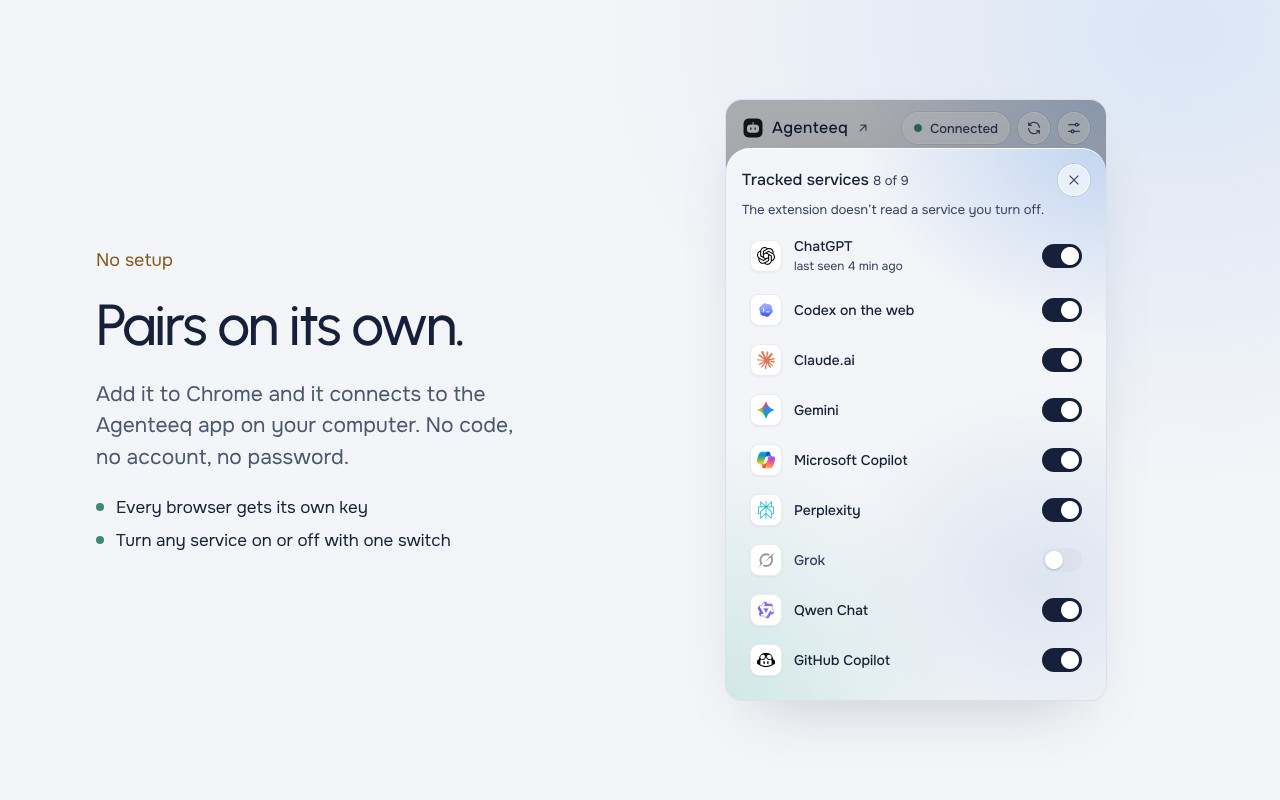
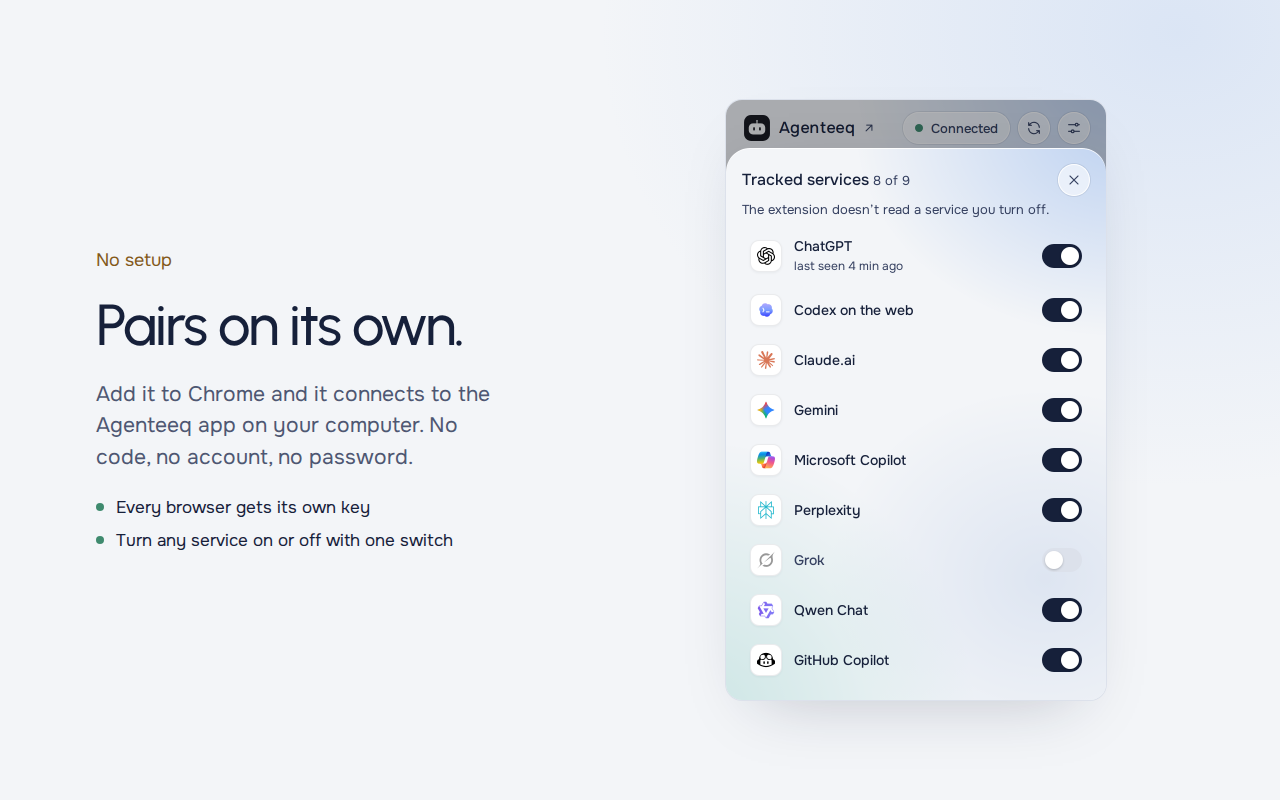
Značka v hlavičce: robot vyvážený k názvu Agenteeq (#255) (#273)
* Značka v hlavičce: větší hlava robota vůči nápisu, jeden poměr všude (#255)

Hlava robota byla vedle nápisu „Agenteeq“ menší než verzálky a každý produkt
měl jiný poměr (aplikace 34 px k 20px písmu, rozšíření 22 px k 16 px, web
34 px k 19 px s mezerou 1,4× verzálek). Velikost loga se teď odvozuje z
velikosti nápisu tokeny --brand-word × --brand-mark-tile (1,9, logo v dlaždici)
nebo --brand-mark-clean (2,1, logo bez dlaždice na webu). Hlava ≈ výška
verzálek, mezera měřená od viditelného tvaru 0,55 em. Logo samo, jeho
geometrie 78:53 ani SVG se nemění.

- aplikace (postranní panel), okno rozšíření, hlavička webu (CZ/EN, 1440 i
  375 px) a stránky se zásadami (logo v dlaždici, třída brand--tile),
- qa:tvary měří velikost, mezeru a svislý střed značky na vykreslené ploše,
- test/znacka-hlavicka.test.mjs hlídá tokeny ve zdrojích,
- snímky pro Chrome Web Store přegenerované skriptem snimky.mjs,
- DESIGN.md: pravidlo „Značka v hlavičce“, CHANGELOG.

Claude-Session: https://claude.ai/code/session_019pjCMAW6NZjG9fzTfPLyCe

* CHANGELOG: jeden nadpis připravovaných změn

Claude-Session: https://claude.ai/code/session_019pjCMAW6NZjG9fzTfPLyCe

---------

diff --git a/extension/popup.html b/extension/popup.html
@@ -35,6 +35,8 @@
       /* Tichá atmosféra aplikace zmenšená na okno: modré světlo vpravo nahoře, šalvěj vlevo dole. Nehýbe se. */
       --atmosphere: radial-gradient(380px 300px at 104% -4%, rgba(150, 184, 236, .58), transparent 70%), radial-gradient(400px 400px at -8% 104%, rgba(158, 212, 206, .46), transparent 70%), radial-gradient(300px 260px at 84% 78%, rgba(190, 206, 232, .40), transparent 72%);
       --w: 380px;
+      /* Značka v hlavičce: stejný poměr loga v dlaždici k nápisu jako v aplikaci (public/styles.css). */
+      --brand-word: 16px; --brand-mark-tile: 1.9;
       color-scheme: light;
     }
     /* Noc: tytéž role jako v aplikaci, inkoust a mlha si prohodí místo. */
@@ -85,7 +87,8 @@
     body[data-odrolovano='true'] .top::after { opacity: 1; }
     /* Značka otevírá aplikaci (jediné místo s touto akcí): kapsle 32 px, plocha až při najetí. Bez
        běžící aplikace je to jen značka – odkaz by vedl na nedostupnou adresu. */
-    .brand { display: inline-flex; align-items: center; gap: 8px; height: 32px; margin: 0 auto 0 -8px; padding: 0 10px 0 8px; min-width: 0; border-radius: var(--r-full); color: var(--ink); font: 500 16px/1 var(--f-display); letter-spacing: .02em; text-decoration: none; transition: background-color var(--motion-response) var(--ease), box-shadow var(--motion-response) var(--ease); }
+    .brand { --brand-mark: round(calc(var(--brand-word) * var(--brand-mark-tile)), 1px); display: inline-flex; align-items: center; gap: max(0px, calc(var(--brand-word) * .55 - var(--brand-mark) * .068)); height: 32px; margin: 0 auto 0 -8px; padding: 0 10px 0 8px; min-width: 0; border-radius: var(--r-full); color: var(--ink); font: 500 var(--brand-word)/1 var(--f-display); letter-spacing: .02em; text-decoration: none; transition: background-color var(--motion-response) var(--ease), box-shadow var(--motion-response) var(--ease); }
+    .brand > img { width: var(--brand-mark); height: var(--brand-mark); flex: none; }
     .brand .sipka { width: 14px; height: 14px; color: var(--ink-2); transition: transform var(--motion-move) var(--ease-out); }
     a.brand:hover { background: var(--glass-strong); box-shadow: inset 0 0 0 1px var(--glass-rim), 0 0 0 1px var(--hair); }
     a.brand:hover .sipka { transform: translate(2px, -2px); }
@@ -366,7 +369,7 @@
 </head>
 <body class="ext-okno" data-stav="nacitam" data-pohled="hlavni">
   <header class="top">
-    <a class="brand" id="brand" href="http://127.0.0.1:4620/" target="_blank" rel="noopener" aria-label="Otevřít aplikaci Agenteeq" title="Otevřít aplikaci Agenteeq" data-i18n-attr="aria-label,title"><img src="icons/brand.svg" width="22" height="22" alt="">Agenteeq<svg class="ico sipka" viewBox="0 0 24 24" aria-hidden="true"><path d="M7 17 17 7M8 7h9v9"/></svg></a>
+    <a class="brand" id="brand" href="http://127.0.0.1:4620/" target="_blank" rel="noopener" aria-label="Otevřít aplikaci Agenteeq" title="Otevřít aplikaci Agenteeq" data-i18n-attr="aria-label,title"><img src="icons/brand.svg" width="30" height="30" alt="">Agenteeq<svg class="ico sipka" viewBox="0 0 24 24" aria-hidden="true"><path d="M7 17 17 7M8 7h9v9"/></svg></a>
     <span class="chip chip--glass stav" id="pill" role="status"><span class="dot"></span><span id="pill-text" data-i18n>Zjišťuji…</span></span>
     <button class="icon-btn" id="refresh-popup" type="button" aria-label="Obnovit aktuální stav" title="Obnovit aktuální stav" data-i18n-attr="aria-label,title">
       <svg class="ico" viewBox="0 0 24 24" aria-hidden="true"><path d="M20 11a8 8 0 0 0-14.9-3.5M4 4v4h4M4 13a8 8 0 0 0 14.9 3.5M20 20v-4h-4"/></svg>

diff --git a/site/lp.css b/site/lp.css
@@ -30,6 +30,10 @@
   --r-tile: 28px; --r-lg: 24px; --r-md: 16px; --r-sm: 12px; --r-xs: 6px; --r-full: 999px;
   --ease: cubic-bezier(.2, .8, .2, 1);
   --page: 1120px;
+  /* Značka v hlavičce: velikost loga se odvozuje z nápisu (docs/DESIGN.md, Značka v hlavičce).
+     Logo bez dlaždice má rámeček 2,1× písmo (hlava ≈ výška verzálek, s anténou ≈ 1,4×), logo
+     v dlaždici 1,9× jako v aplikaci. Mezera se měří od viditelného tvaru: .55em. */
+  --brand-word: 19px; --brand-mark-clean: 2.1; --brand-mark-tile: 1.9;
   --unit-y: clamp(96px, 11vw, 160px);
   color-scheme: light;
 }
@@ -773,8 +777,12 @@ footer.site-footer { padding:0; border-color:rgba(255,255,255,.08); }
 .nav { background:#111017; }
 .nav.is-odjeto { background:rgba(17,16,23,.85); backdrop-filter:blur(24px) saturate(135%); -webkit-backdrop-filter:blur(24px) saturate(135%); border-bottom-color:rgba(255,255,255,.1); box-shadow:0 12px 35px -28px rgba(0,0,0,.8); }
 .nav-in { min-height:76px; gap:clamp(18px,2.5vw,36px); }
-.nav .brand { font-size:19px; gap:12px; letter-spacing:-.025em; }
-.nav .brand img { width:34px; height:34px; }
+.nav .brand { --brand-ratio:var(--brand-mark-clean); --brand-bearing:.226; --brand-mark:round(calc(var(--brand-word) * var(--brand-ratio)), 1px); font-size:var(--brand-word); letter-spacing:-.025em;
+  /* Rámeček loga má po stranách prázdno (bez dlaždice 22,6 %, dlaždice 6,8 %), proto se mezera
+     počítá od viditelného tvaru: všude .55em, stejně jako v aplikaci a rozšíření. */
+  gap:max(0px, calc(.55em - var(--brand-mark) * var(--brand-bearing))); }
+.nav .brand--tile { --brand-ratio:var(--brand-mark-tile); --brand-bearing:.068; }
+.nav .brand img { width:var(--brand-mark); height:var(--brand-mark); }
 .nav-links { gap:clamp(12px,2vw,26px); }
 .nav-links a { display:inline-flex; align-items:center; min-height:40px; border-radius:var(--r-full); padding:0 9px; transition:color .2s var(--ease),background-color .2s var(--ease); }
 .nav-links a:hover { background:rgba(255,255,255,.06); }
@@ -801,7 +809,7 @@ footer.site-footer { padding:0; border-color:rgba(255,255,255,.08); }
  #vyzkouset .steps li:hover::before { transform:translate3d(10%,8%,0); }
 }
 @media(max-width:900px) { #vyzkouset .steps li { min-height:unset; } }
-@media(max-width:620px) { .nav-in { min-height:68px; gap:12px; } .nav .brand { gap:8px; font-size:17px; } .nav .brand img { width:30px; height:30px; } #vyzkouset .steps { gap:12px; } }
+@media(max-width:620px) { .nav-in { min-height:68px; gap:12px; } .nav .brand { --brand-word:17px; } #vyzkouset .steps { gap:12px; } }
 @media(prefers-reduced-motion:reduce) { #vyzkouset .steps li,#vyzkouset .steps li::before,.nav .btn--sm { transition:none!important; transform:none!important; } }
 
 /* Compact editorial bento: one full-width real app overview, two compact pairs.

diff --git a/public/styles.css b/public/styles.css
@@ -62,6 +62,11 @@
   --r-xs: 6px;
   --r-full: 999px;
   --r-logo: 28%;
+  /* Značka v hlavičce (docs/DESIGN.md, Značka v hlavičce): velikost loga se odvozuje z velikosti
+     nápisu, aby hlava robota optický ladila s verzálkami. Logo v dlaždici má rámeček 1,9× písmo
+     (dlaždice ≈ 2,2× výška verzálek, hlava ≈ výška verzálek), logo bez dlaždice na tmavém webu 2,1×. */
+  --brand-word: 20px;
+  --brand-mark-tile: 1.9;
   /* Karty leží v ploše, nevznášejí se. Místo měkkého stínu je drží vlasová linka: hrany jsou
      ostré, takže je vidět, že jsou zarovnané – a nic se nerozmazává do okolí. Skutečné vyzdvižení
      (--shadow-lg) zůstává jen tomu, co se nad stránku opravdu vysouvá: dialogy a nabídky. */
@@ -218,8 +223,8 @@ html[data-theme='dark'] .pb-agent-logo .logo--mono { filter: none; }
    620–1200 px. Vodorovné odsazení nese `--sb-x`, aby se k němu dal přiložit pruh aktivní položky. */
 .sidebar { --sb-x: 24px; position: sticky; top: 24px; align-self: start; height: calc(100dvh - 48px); margin: 24px 0 24px 24px; padding: 32px var(--sb-x) 24px; background: var(--glass); border-radius: var(--r-lg); box-shadow: var(--shadow); display: flex; flex-direction: column; overflow: hidden; z-index: 2; }
 .sidebar > .brand, .sidebar > .side-foot { flex: none; }
-.brand { display: inline-flex; align-items: center; gap: 8px; align-self: center; text-decoration: none; font: 500 26px/1 var(--f-display); letter-spacing: -.01em; }
-.brand-mark { width: 34px; height: 34px; flex: none; }
+.brand { --brand-mark: round(calc(var(--brand-word) * var(--brand-mark-tile)), 1px); display: inline-flex; align-items: center; gap: max(0px, calc(var(--brand-word) * .55 - var(--brand-mark) * .068)); align-self: center; text-decoration: none; font: 500 26px/1 var(--f-display); letter-spacing: -.01em; }
+.brand-mark { width: var(--brand-mark); height: var(--brand-mark); flex: none; }
 .brand-mark .bm-aerial { fill: none; stroke: var(--action); stroke-width: 3.5; stroke-linecap: round; }
 .brand-mark .bm-tip { fill: var(--action); }
 .brand-mark .bm-head { fill: var(--ink); }

diff --git a/public/refinement.css b/public/refinement.css
@@ -8,8 +8,7 @@
 }
 body { font-size: var(--type-body); line-height: 1.5; letter-spacing: 0; font-kerning: normal; font-optical-sizing: auto; }
 button, input, textarea, select { font-family: var(--f-body); letter-spacing: 0; }
-.brand > span { font-size: 20px; line-height: 1; font-weight: 500; letter-spacing: -.01em; text-transform: none; }
-.brand { gap: 8px; }
+.brand > span { font-size: var(--brand-word); line-height: 1; font-weight: 500; letter-spacing: -.01em; text-transform: none; }
 .page-title { font-size: var(--type-page); line-height: 1.2; font-weight: 400; letter-spacing: -.025em; }
 .home-intro h2 { font-size: clamp(2rem, 3.1vw, var(--type-hero)); font-weight: 400; line-height: 1.15; letter-spacing: -.035em; margin: 16px 0; }
 .home-intro p { font-size: var(--type-body); line-height: 1.6; }

diff --git a/public/workbench.css b/public/workbench.css
@@ -39,9 +39,7 @@ body { letter-spacing: -.012em; }
 .page-title { font-size: 36px; font-weight: 300; letter-spacing: -.035em; }
 .sec-head h2, .sec-head h3 { font-weight: 400; font-size: 20px; letter-spacing: -.025em; }
 .card { border: 1px solid var(--line-2); box-shadow: none; }
-.brand { gap: 10px; }
 .brand > span { font: 500 15px/1 var(--f-body); text-transform: uppercase; letter-spacing: .24em; }
-.brand .brand-mark { width: 34px; height: 34px; }
 .link { background: transparent; box-shadow: none; padding-inline: 4px; color: var(--mute); }
 .link:hover { color: var(--ink); background: var(--line-2); box-shadow: none; }
 .btn, .lchip, .chip, .seg button, .lselect { font-weight: 500; box-shadow: none; }

diff --git a/site/soukromi/index.html b/site/soukromi/index.html
@@ -28,7 +28,7 @@
 <a class="skip" href="#obsah">Přeskočit na obsah</a>
 
 <header class="nav"><div class="wrap nav-in">
-  <a class="brand" href="/" aria-label="Agenteeq – domů"><img src="/brand/agenteeq-mark-dark.svg" alt="" width="28" height="28"><span>Agenteeq</span></a>
+  <a class="brand brand--tile" href="/" aria-label="Agenteeq – domů"><img src="/brand/agenteeq-mark-dark.svg" alt="" width="28" height="28"><span>Agenteeq</span></a>
   <div class="lang" role="group" aria-label="Jazyk stránky"><a href="/soukromi" lang="cs" hreflang="cs" aria-current="page" aria-label="Čeština">CZ</a><a href="/en/privacy" lang="en" hreflang="en" aria-label="English">EN</a></div>
 </div></header>
 

diff --git a/site/en/privacy/index.html b/site/en/privacy/index.html
@@ -28,7 +28,7 @@
 <a class="skip" href="#obsah">Skip to content</a>
 
 <header class="nav"><div class="wrap nav-in">
-  <a class="brand" href="/en" aria-label="Agenteeq – home"><img src="/brand/agenteeq-mark-dark.svg" alt="" width="28" height="28"><span>Agenteeq</span></a>
+  <a class="brand brand--tile" href="/en" aria-label="Agenteeq – home"><img src="/brand/agenteeq-mark-dark.svg" alt="" width="28" height="28"><span>Agenteeq</span></a>
   <div class="lang" role="group" aria-label="Page language"><a href="/soukromi" lang="cs" hreflang="cs" aria-label="Čeština">CZ</a><a href="/en/privacy" lang="en" hreflang="en" aria-current="page" aria-label="English">EN</a></div>
 </div></header>
 

diff --git a/public/index.html b/public/index.html
@@ -42,7 +42,7 @@
 
     <aside class="sidebar">
       <a class="brand" href="#/prehled" aria-label="Agenteeq – přehled">
-        <img class="brand-mark" src="/brand/agenteeq-mark.svg" width="48" height="48" alt="" aria-hidden="true">
+        <img class="brand-mark" src="/brand/agenteeq-mark.svg" width="38" height="38" alt="" aria-hidden="true">
         <span>Agenteeq</span>
       </a>
       <div class="profile"><div class="profile-in" id="profile"></div></div>

diff --git a/CHANGELOG.md b/CHANGELOG.md
@@ -4,6 +4,7 @@
 
 - **Kratší a pravdivější texty v aplikaci i rozšíření (#255).** Zmizela vata typu „na jednom místě“, „ty máš prostor na to podstatné“ nebo „Nainstaluješ ho za minutu“ a vysvětlivky, které opakovaly text o řádek níž (Tailscale, rozšíření v Nastavení, výčty služeb). Opravené jsou věty, které slibovaly víc, než aplikace dělá: úvod už netvrdí, že Agenteeq sám rozpozná plány a ověřené náklady za API (doplní je správcovský klíč), okno rozšíření neslibuje „Ozvu se“, Nápověda neodkazuje na průvodce, který na stránce není, a věta o soukromí u napojených modelů říká totéž co dialog napojení: hesla ani klíče Agenteeq neuvidí a z webových chatů nedostane text zpráv. Upozornění o soukromí, bezpečnosti, štítky Beta i „Nepodařilo se zjistit“ zůstaly beze změny.
 - **Pomocník odpovídá na 20 nejčastějších otázek k Agenteeq – česky i anglicky, i s překlepy a bez diakritiky.** Agenti, schvalování povolení, otevření konverzace, spuštění agenta, limity, útrata, rozpočet, projekty, dovednosti, rozšíření pro Chrome, telefon a QR kód, aktualizace Stabilní/Preview, účet a synchronizace, upozornění, hooky Claude Code, Codex, soukromí, vzhled, jazyk a chybějící zdroje agentů. Každá odpověď vede tlačítkem rovnou na správné místo v aplikaci a říká i to, co Agenteeq neumí (třeba schválit akci za tebe nebo přečíst limit aplikace ChatGPT). Dřív třeba „Jak připojím telefon?“ poslalo do Napojených modelů a „Jak se odhlásím?“ skončilo obecnou otázkou. Na otázky mimo aplikaci (počasí, psaní kódu, zdraví) Pomocník poctivě řekne, že s nimi neporadí, a nabídne další krok místo hledání v konverzacích. Všechno běží na tomto počítači bez placeného API.
+- **Vyváženější značka v hlavičce.** Hlava robota vedle nápisu „Agenteeq“ byla opticky menší než písmena. Teď je zhruba stejně vysoká jako velká písmena nápisu a mezera mezi logem a nápisem je všude stejná – v postranním panelu aplikace, v okně rozšíření pro Chrome i v hlavičce webu (na počítači i na telefonu). Samotné logo ani jeho proporce se nemění.
 
 ## 0.46.15 – 2026-10-16 · Aktuální Preview kandidát se sjednoceným changelogem a distribucí
 
@@ -405,7 +406,6 @@ Automatizované regresní testy kontrolují autorizaci, běh dialogů, zrušení
 - **Oprava poznámek k 0.42.0:** plovoucího robota s radami na ostatních stránkách nahradil pomocník vpravo dole; rady ke stránce jsou v jeho úvodní zprávě.
 
 ## 0.42.0 – 2026-10-08 · Pomocník, pohodlnější zadávání práce, robot jen tam, kde pomáhá
-
 - **Pomocník (Beta).** Kulaté tlačítko s robotem vpravo dole otevře chat. Na „najdi chat, kde jsme před cca 3 měsíci řešili fakturaci, už nevím jaký LLM“ prohledá konverzace v přehledu i přepisy na disku tohoto počítače (Claude Code, Codex) – i starší než 30denní okno přehledu. Rozumí období („před 3 měsíci“, „minulý týden“, „v září“, „2 weeks ago“) a nástroji („v Codexu“). Výsledek ukáže s úryvkem a zvýrazněnými slovy; konverzaci z přehledu otevře, starší nabídne zkopírovat příkaz k pokračování (`claude --resume …`, `codex resume …`). Na „jak zapnu upozornění na telefon?“ ukáže volby v aplikaci a klepnutím na ně přejde. Hledání má limit (4 000 přepisů, 5 s) a když nestihne vše, řekne to – „nic jsem nenašel“ hlásí jen po skutečném prohledání. Když nic nesedí v zadaném období, nabídne shody z jiné doby a řekne to. S Ollamou může odpověď navíc zformulovat lokální model; data nikdy neopustí počítač. Telefon dostane jen to, co vidí v přehledu, nic z přepisů. Skrýt jde v Nastavení → Účet a vzhled, tam je i přepínač pohybu robotů.
 - **Pole pro zadání jako u moderních AI nástrojů.** Agent se vybírá tlačítkem přímo v liště pole (Claude Code ▾): nabídka s hledáním, šipkami, Enterem a Esc, rozdělená na agenty na tomto počítači a na webu. Režim, projekt a složka jsou v téže liště hned pod textem, Spustit vpravo (zkratka v popisku tlačítka). Žádné rozbalování „Možností zadání“. Ověřeno automatickým testem v Chromiu i WebKitu (`npm run qa:studio`): výběr, hledání, klávesnice, klik mimo, zachovaný koncept a skutečné odeslání zadání.
 - **Robot jen tam, kde pomáhá.** Na Přehledu sedí v panelu u pozdravu a ukazuje stav všech agentů najednou (zamává, když na tebe někdo čeká; píše, když agenti pracují) – věta pod nadpisem říká totéž slovy. Na ostatních stránkách už není pruh přes obsah: vpravo dole je malý plovoucí robot, který radu ke stránce nabídne jednou sám a pak na klepnutí nebo najetí myší. Nekoliduje s nadpisy (dřív v Nastavení zasahoval do obsahu).

diff --git a/docs/DESIGN.md b/docs/DESIGN.md
@@ -22,6 +22,15 @@ nepoužívá. Oficiální SVG master pro Dock je `public/brand/agenteeq-dock.svg
 binární ikona `desktop/Agenteeq.icns`. Motiv trojzubce i fialová anténa jsou
 zakázané. Zdrojové logo zůstává oddělené pro malé plochy menu baru.
 
+**Značka v hlavičce (logo + nápis, issue #255).** Velikost loga se odvozuje z velikosti nápisu,
+nikdy se nezapisuje číslem: `--brand-word` (aplikace 20 px, rozšíření 16 px, web 19 px / na
+telefonu 17 px) × poměr varianty. Logo v dlaždici (aplikace, rozšíření, stránky se zásadami)
+má rámeček **1,9×** písmo (`--brand-mark-tile`): dlaždice ≈ 2,2× výška verzálek, hlava ≈ výška
+verzálek. Logo bez dlaždice (tmavá hlavička webu) má rámeček **2,1×** (`--brand-mark-clean`):
+hlava ≈ 1,05× verzálek, s anténou ≈ 1,4×. Mezera se měří od viditelného tvaru (ne od rámečku
+SVG) a je všude **0,55 em**. Logo je svisle na středu nápisu a nikdy se nedeformuje. Hlídá
+`test/znacka-hlavicka.test.mjs` a na vykreslené ploše `npm run qa:tvary`.
+
 ## Písmo Satoshi a licence
 
 Satoshi (Indian Type Foundry, ITF Free Font License 2.0) smí být vložené do aplikace, rozšíření a na vlastní web, ale nesmí ležet ve veřejném repozitáři (§ 02). Soubor proto stahuje `scripts/satoshi.mjs` z Fontshare při sestavení a ověří ho podle SHA-256; bez souboru se sází Onest a server pravidlo `@font-face` vůbec nepošle. Soubor se nesmí upravovat ani převádět (žádné subsetování).
